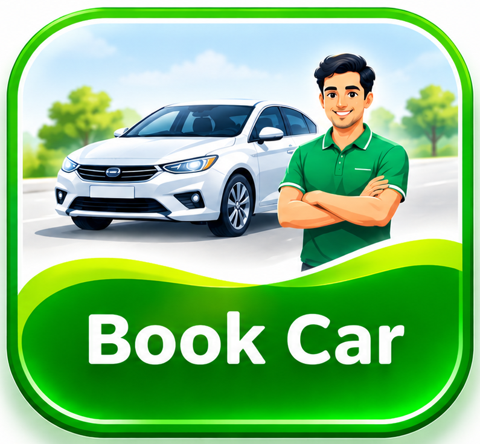
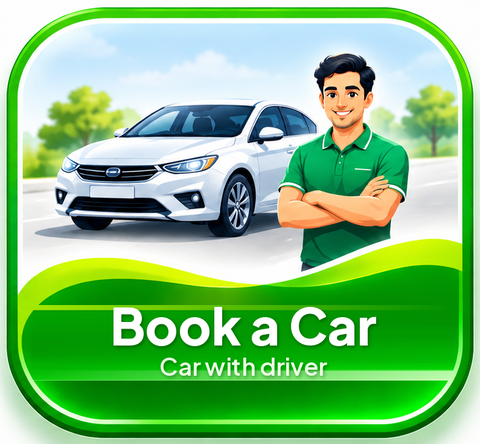
checkpoint before testing_agent_full_stack_o55
Emergent-Commit-Key: 35df40beab219f7323aee53d68f7e4933dedb3d9b6bb87ddf66d5abaf32f40e9

Changed region(s): [[0.0625, 0.6734, 0.9375, 0.8784]]

diff --git a/frontend/app/admin/dashboard.tsx b/frontend/app/admin/dashboard.tsx
@@ -397,7 +397,7 @@ export default function AdminScreen() {
               {["under_review", "approved", "resubmit", "rejected", "suspended", "all"].map((s) => <Chip key={s} testID={`admin-pro-filter-${s}`} label={s === "suspended" ? "Suspended" : s === "all" ? "All" : t(`verify.status.${s}`)} active={dStatus === s} onPress={() => setDStatus(s)} />)}
             </ScrollView>
             <ScrollView horizontal showsHorizontalScrollIndicator={false} contentContainerStyle={{ gap: space.sm }}>
-              {[["all", "All services"], ["rent", "Rent a Driver"], ["book", "Book Car"]].map(([k, l]) => <Chip key={k} testID={`admin-svc-filter-${k}`} label={l} active={svc === k} onPress={() => setSvc(k)} />)}
+              {[["all", "All services"], ["rent", "Rent a Driver"], ["book", "Book a Car"]].map(([k, l]) => <Chip key={k} testID={`admin-svc-filter-${k}`} label={l} active={svc === k} onPress={() => setSvc(k)} />)}
             </ScrollView>
             {data.length === 0 ? <Empty title={t("admin.empty")} /> : null}
             {data.map((p: any) => <AdminProCard key={p.user_id} p={p} act={act} onPreview={setPreview} />)}
@@ -461,14 +461,14 @@ export default function AdminScreen() {
         return (
           <>
             <ScrollView horizontal showsHorizontalScrollIndicator={false} contentContainerStyle={{ gap: space.sm }}>
-              {[["all", "All services"], ["rent", "Rent a Driver"], ["book", "Book Car"]].map(([k, l]) => <Chip key={k} testID={`admin-svc-filter-${k}`} label={l} active={svc === k} onPress={() => setSvc(k)} />)}
+              {[["all", "All services"], ["rent", "Rent a Driver"], ["book", "Book a Car"]].map(([k, l]) => <Chip key={k} testID={`admin-svc-filter-${k}`} label={l} active={svc === k} onPress={() => setSvc(k)} />)}
             </ScrollView>
             <T weight="800">Bookings ({data.bookings?.length ?? 0})</T>
             {(data.bookings ?? []).length === 0 ? <Empty title={t("admin.empty")} /> : null}
             {(data.bookings ?? []).map((b: any) => (
               <Card key={b.booking_id} testID={`admin-hire-${b.booking_id}`} onPress={() => router.push(`/hire/${b.booking_id}`)} style={{ gap: 4, padding: space.md }}>
                 <View style={{ flexDirection: "row", justifyContent: "space-between" }}>
-                  <T weight="700">{b.booking_id} · {b.service === "book" ? "Book Car" : "Rent a Driver"}</T>
+                  <T weight="700">{b.booking_id} · {b.service === "book" ? "Book a Car" : "Rent a Driver"}</T>
                   <Badge label={t(`status.${b.status}`)} tone={statusTone(b.status)} />
                 </View>
                 <T size={12}>{b.route} · {b.date} {b.time} · {inr(b.service_fee)}</T>
@@ -479,7 +479,7 @@ export default function AdminScreen() {
             {(data.requests ?? []).map((r: any) => (
               <Card key={r.request_id} testID={`admin-hire-req-${r.request_id}`} style={{ gap: 4, padding: space.md }}>
                 <View style={{ flexDirection: "row", justifyContent: "space-between" }}>
-                  <T weight="700">{r.request_id} · {r.service === "book" ? "Book Car" : "Rent a Driver"}</T>
+                  <T weight="700">{r.request_id} · {r.service === "book" ? "Book a Car" : "Rent a Driver"}</T>
                   <Badge label={r.status} tone={r.status === "fulfilled" ? "success" : r.status === "open" ? "warning" : "muted"} />
                 </View>
                 <T size={12}>{r.pickup} → {r.destination || "—"} · {r.date} {r.time}</T>

diff --git a/frontend/app/hire/vehicles.tsx b/frontend/app/hire/vehicles.tsx
@@ -10,7 +10,7 @@ import { useToast } from "@/src/components/toast";
 import { Btn, Empty, Header, Loading, T, space } from "@/src/components/ui";
 import { useTheme } from "@/src/theme";
 
-/** One shared vehicle list for Carpool and Local Driver; Book Car needs a separate admin approval per vehicle. */
+/** One shared vehicle list for Carpool and Local Driver; Book a Car needs a separate admin approval per vehicle. */
 export default function MyVehicles() {
   const insets = useSafeAreaInsets();
   const { colors } = useTheme();
@@ -22,7 +22,7 @@ export default function MyVehicles() {
   useFocusEffect(useCallback(() => { load(); }, [load]));
   const request = async (v: any) => {
     setBusy(v.vehicle_id);
-    try { await api(`/vehicles/${v.vehicle_id}/commercial`, { method: "POST" }); toast("Sent to Travoo for Book Car approval"); await load(); }
+    try { await api(`/vehicles/${v.vehicle_id}/commercial`, { method: "POST" }); toast("Sent to Travoo for Book a Car approval"); await load(); }
     catch (e: any) { toast(e.message, "error"); setForm({ v, book: true }); }
     setBusy("");
   };
@@ -34,12 +34,12 @@ export default function MyVehicles() {
           <T size={13} color={colors.muted}>Shared with Carpool. Hatchback and sedan carry up to 3 passengers; SUV/MUV up to the seats on the RC (max 8), driver not counted.</T>
           {form ? <VehicleForm initial={form.v} forBook={form.book} onCancel={() => setForm(null)} onSaved={() => { setForm(null); toast("Vehicle saved"); load(); }} />
             : <Btn testID="vehicles-add" icon="add" label="Add vehicle" onPress={() => setForm({ book: false })} />}
-          {list.length === 0 ? <Empty icon="car-outline" title="No vehicles yet" body="Add a vehicle to offer Book Car or publish carpool rides." /> : null}
+          {list.length === 0 ? <Empty icon="car-outline" title="No vehicles yet" body="Add a vehicle to offer Book a Car or publish carpool rides." /> : null}
           {list.map((v) => (
             <View key={v.vehicle_id} style={{ gap: space.xs }}>
               <VehicleRow v={v} onEdit={() => setForm({ v, book: v.commercial_status && v.commercial_status !== "none" })} />
               {["none", "rejected", undefined].includes(v.commercial_status) ? (
-                <Btn small variant="outline" testID={`vehicles-request-${v.vehicle_id}`} icon="briefcase-outline" label="Use for Book Car" loading={busy === v.vehicle_id} onPress={() => request(v)} />
+                <Btn small variant="outline" testID={`vehicles-request-${v.vehicle_id}`} icon="briefcase-outline" label="Use for Book a Car" loading={busy === v.vehicle_id} onPress={() => request(v)} />
               ) : null}
             </View>
           ))}

diff --git a/frontend/src/components/localdriver/VehicleForm.tsx b/frontend/src/components/localdriver/VehicleForm.tsx
@@ -60,7 +60,7 @@ export function VehicleForm({ initial, forBook, onSaved, onCancel }: { initial?:
   const set = (k: string, val: any) => setV((x: any) => ({ ...x, [k]: val }));
   const save = async () => {
     setErr("");
-    if (forBook && (!v.rc_file_id || !v.permit_no.trim() || !/^\d{2}-\d{2}-\d{4}$/.test(v.insurance_expiry))) return setErr("Book Car needs the RC, permit number and insurance expiry (DD-MM-YYYY)");
+    if (forBook && (!v.rc_file_id || !v.permit_no.trim() || !/^\d{2}-\d{2}-\d{4}$/.test(v.insurance_expiry))) return setErr("Book a Car needs the RC, permit number and insurance expiry (DD-MM-YYYY)");
     setBusy(true);
     try {
       const body = { name: v.name.trim(), make: v.make.trim(), model: v.model.trim() || "-", vtype: v.vtype, reg_no: v.reg_no.trim(), seats: v.seats, rc_file_id: v.rc_file_id,
@@ -92,7 +92,7 @@ export function VehicleForm({ initial, forBook, onSaved, onCancel }: { initial?:
           <Field testID="vehicle-permit" label="Commercial / tourist permit number" value={v.permit_no} onChangeText={(x) => set("permit_no", x)} maxLength={30} />
           <Field testID="vehicle-insurance" label="Insurance valid until (DD-MM-YYYY)" placeholder="31-12-2027" value={v.insurance_expiry ?? ""} onChangeText={(x) => set("insurance_expiry", x)} maxLength={10} keyboardType="numbers-and-punctuation" />
           <Field testID="vehicle-day-rate" label="Vehicle charge per day (₹)" value={String(v.day_rate || "")} onChangeText={(x) => set("day_rate", x.replace(/\D/g, ""))} keyboardType="number-pad" maxLength={5} />
-          <T size={11} color={colors.muted}>Travoo checks the RC, permit and insurance before this vehicle can be used for Book Car.</T>
+          <T size={11} color={colors.muted}>Travoo checks the RC, permit and insurance before this vehicle can be used for Book a Car.</T>
         </>
       ) : null}
       {err ? <T testID="vehicle-form-error" size={13} color={colors.error}>{err}</T> : null}

diff --git a/frontend/src/components/localdriver/parts.tsx b/frontend/src/components/localdriver/parts.tsx
@@ -11,7 +11,7 @@ export const LANG_OPTIONS = ["Kannada", "Hindi", "English", "Tamil", "Telugu", "
   "Assamese", "Konkani", "Tulu", "Bhojpuri", "Rajasthani", "Kashmiri", "Maithili", "Nepali", "Sindhi", "Manipuri"];
 
 export const PRO_STATUS: Record<string, { label: string; tone: "info" | "success" | "warning" | "error" | "muted"; icon: IconName; text: string }> = {
-  none: { label: "Not registered", tone: "muted", icon: "person-add-outline", text: "Register once to offer Rent a Driver and Book Car." },
+  none: { label: "Not registered", tone: "muted", icon: "person-add-outline", text: "Register once to offer Rent a Driver and Book a Car." },
   under_review: { label: "Verification pending", tone: "warning", icon: "time-outline", text: "Travoo is checking your documents. We will notify you after the review." },
   approved: { label: "Approved", tone: "success", icon: "shield-checkmark", text: "You are a verified Travoo local driver." },
   rejected: { label: "Rejected", tone: "error", icon: "close-circle-outline", text: "Your registration was not approved. Fix the items below and submit again." },
@@ -22,7 +22,7 @@ export const ITEM_LABEL: Record<string, string> = { home: "Home location", langu
   licence_front: "Licence front photo", licence_back: "Licence back photo", id_proof: "Aadhaar front photo", vehicles: "Vehicle details" };
 
 export const COMMERCIAL: Record<string, { label: string; tone: "info" | "success" | "warning" | "error" | "muted" }> = {
-  approved: { label: "Approved for Book Car", tone: "success" }, pending: { label: "Approval pending", tone: "warning" },
+  approved: { label: "Approved for Book a Car", tone: "success" }, pending: { label: "Approval pending", tone: "warning" },
   rejected: { label: "Not approved", tone: "error" }, none: { label: "Carpool only", tone: "muted" },
 };
 

diff --git a/frontend/app/(tabs)/index.tsx b/frontend/app/(tabs)/index.tsx
@@ -69,8 +69,7 @@ function PassengerHome() {
   const art = (testID: string, img: number, title: string, sub: string, bg: string, onPress: () => void, delay: number) => (
     <Pressable testID={testID} onPress={onPress} style={({ pressed }) => ({ flex: 1, borderRadius: radius.lg, backgroundColor: bg, overflow: "hidden", padding: space.sm, gap: 2,
       shadowColor: "#14233A", shadowOpacity: 0.08, shadowRadius: 12, shadowOffset: { width: 0, height: 6 }, elevation: 3, transform: [{ scale: pressed ? 0.97 : 1 }] })}>
-      <FloatingImage source={img} delay={delay} style={{ width: "100%", height: 130 }} testID={`${testID}-image`} />
-      <T size={12} weight="700" center accessibilityLabel={title}>{sub}</T>
+      <FloatingImage source={img} delay={delay} style={{ width: "100%", height: 150 }} testID={`${testID}-image`} accessibilityLabel={`${title}. ${sub}`} />
     </Pressable>
   );
 
@@ -110,7 +109,7 @@ function PassengerHome() {
         </Animated.View>
         <Animated.View entering={FadeInDown.delay(80).duration(400)} style={{ flexDirection: "row", gap: space.md, paddingHorizontal: space.lg }}>
           {art("home-rent-driver-card", require("@/assets/images/tile-rent-driver.png"), "Rent a Driver", "Driver for your car", "#FFFFFF", () => router.push("/hire?service=rent"), 0)}
-          {art("home-book-car-card", require("@/assets/images/tile-book-car.png"), "Book Car", "Car with driver", "#FFFFFF", () => router.push("/hire?service=book"), 400)}
+          {art("home-book-car-card", require("@/assets/images/tile-book-car.png"), "Book a Car", "Car with driver", "#FFFFFF", () => router.push("/hire?service=book"), 400)}
         </Animated.View>
 
         <Animated.View entering={FadeInDown.delay(120).duration(400)} style={{ gap: space.sm, paddingHorizontal: space.lg }}>

diff --git a/frontend/app/(tabs)/driver-trips.tsx b/frontend/app/(tabs)/driver-trips.tsx
@@ -35,7 +35,7 @@ export default function DriverTripsTab() {
       {!hires ? <Loading /> : (
         <FlatList data={data} keyExtractor={(i) => i.booking_id ?? i.trip_id} refreshControl={<RefreshControl refreshing={false} onRefresh={load} />}
           contentContainerStyle={{ padding: space.lg, gap: space.md, paddingBottom: 120 }}
-          ListEmptyComponent={<Empty icon="car-outline" title="No trips here yet" body={tab === "carpool" ? "Rides you publish appear here." : "Accepted Rent / Book Car trips appear here."} />}
+          ListEmptyComponent={<Empty icon="car-outline" title="No trips here yet" body={tab === "carpool" ? "Rides you publish appear here." : "Accepted Rent / Book a Car trips appear here."} />}
           renderItem={({ item }) => tab === "carpool" ? (
             <Card testID={`trips-ride-${item.trip_id}`} onPress={() => router.push(`/trip/${item.trip_id}`)} style={{ gap: space.xs }}>
               <View style={{ flexDirection: "row", justifyContent: "space-between", gap: space.sm }}>
@@ -50,7 +50,7 @@ export default function DriverTripsTab() {
                 <T weight="800" style={{ flex: 1 }} numberOfLines={1}>{item.route}</T>
                 <Badge label={item.status} tone={statusTone(item.status)} />
               </View>
-              <T size={13} color={colors.muted}>{fmtDate(item.date)} · {item.time} · {item.service === "book" ? "Book Car" : "Rent a Driver"} · {item.hours} h</T>
+              <T size={13} color={colors.muted}>{fmtDate(item.date)} · {item.time} · {item.service === "book" ? "Book a Car" : "Rent a Driver"} · {item.hours} h</T>
               <T weight="800" color={colors.success}>{inr(item.service_fee)}</T>
             </Card>
           )} />

diff --git a/frontend/app/mode.tsx b/frontend/app/mode.tsx
@@ -47,7 +47,7 @@ export default function ChooseMode() {
     <ScrollView style={{ flex: 1, backgroundColor: colors.surface }} contentContainerStyle={{ padding: space.lg, paddingTop: insets.top + space.xl, gap: space.lg, paddingBottom: insets.bottom + space.xl }}>
       <View style={{ alignItems: "center" }}><Wordmark size={34} /></View>
       <T testID="mode-title" size={26} weight="800" center>How would you like to use Travoo?</T>
-      <ModeCard testID="mode-passenger" img={IMG.passenger} kicker="I'm a" title="Passenger" points={["Find a Ride", "Rent a Driver", "Book Car"]} bg={colors.brandSoft} accent={colors.brandPrimary} busy={busy} onPress={() => pick("passenger")} />
+      <ModeCard testID="mode-passenger" img={IMG.passenger} kicker="I'm a" title="Passenger" points={["Find a Ride", "Rent a Driver", "Book a Car"]} bg={colors.brandSoft} accent={colors.brandPrimary} busy={busy} onPress={() => pick("passenger")} />
       <ModeCard testID="mode-driver" img={IMG.driver} kicker="I'm a" title="Driver" points={["Offer a Ride", "Driver Only", "Car with Driver", "Earn with Driving"]} bg={colors.accentSoft} accent={colors.brandTertiary} busy={busy} onPress={() => pick("driver")} />
       {err ? <T testID="mode-error" color={colors.error}>{err}</T> : null}
       <View style={{ flexDirection: "row", alignItems: "center", gap: space.md, padding: space.md, borderRadius: radius.lg, backgroundColor: colors.surfaceSecondary }}>

diff --git a/frontend/src/components/LocalDriverParts.tsx b/frontend/src/components/LocalDriverParts.tsx
@@ -5,7 +5,7 @@ import { HomeLoc, Taluk, TalukPicker } from "@/src/components/TalukPicker";
 import { Badge, Btn, Card, Chip, Field, Stepper, T, space } from "@/src/components/ui";
 import { useTheme } from "@/src/theme";
 
-export const SERVICE_LABEL: Record<string, string> = { rent: "Rent a Driver", book: "Book Car" };
+export const SERVICE_LABEL: Record<string, string> = { rent: "Rent a Driver", book: "Book a Car" };
 export const RENT_OPTIONS = [["hourly", "Hourly"], ["half_day", "Half-day"], ["full_day", "Full-day"], ["multi_day", "Multiple days"], ["outstation", "Outstation"]] as const;
 export const BOOK_OPTIONS = [["one_way", "One-way"], ["round_trip", "Round trip"], ["multi_day", "Multiple days"], ["outstation", "Outstation"]] as const;
 export const VEHICLE_CATS = ["hatchback", "sedan", "suv", "muv", "van", "luxury", "other"];
@@ -75,7 +75,7 @@ export function ServiceAreasEditor({ areas, onChange, homeCode, testPrefix = "ar
 
 const blank: Vehicle = { name: "", reg_no: "", category: "sedan", seats: 4, day_rate: 0, available: true };
 
-/** Vehicles provided for Book Car. */
+/** Vehicles provided for Book a Car. */
 export function VehiclesEditor({ vehicles, onChange, testPrefix = "veh" }: { vehicles: Vehicle[]; onChange: (v: Vehicle[]) => void; testPrefix?: string }) {
   const { colors } = useTheme();
   const [v, setV] = useState<Vehicle>(blank);

diff --git a/frontend/app/hire/register.tsx b/frontend/app/hire/register.tsx
@@ -41,7 +41,7 @@ function StatusView({ me, onFix }: { me: any; onFix: () => void }) {
         <T size={13}>Home: {p.home?.subdistrict_name} {p.home?.sub_label}, {p.home?.district_name}</T>
         <T size={13}>Languages: {(p.languages ?? []).join(", ")}</T>
         <T size={13}>Licence: {p.licence_no} · valid until {p.licence_expiry}</T>
-        <T size={13}>Services: {(p.services ?? []).map((s: string) => (s === "book" ? "Book Car" : "Rent a Driver")).join(" + ")}</T>
+        <T size={13}>Services: {(p.services ?? []).map((s: string) => (s === "book" ? "Book a Car" : "Rent a Driver")).join(" + ")}</T>
       </Card>
       {fix ? <Btn testID="pro-fix-button" icon="create-outline" label="Fix and resubmit" onPress={onFix} /> : null}
       {p.status === "approved" ? <Btn testID="pro-open-dashboard" label="Open Local Driver Dashboard" onPress={() => router.replace("/hire/driver")} /> : null}
@@ -102,7 +102,7 @@ export default function LocalDriverRegister() {
     }
     if (step === 2) {
       if (!d.services.length) return "Choose at least one service";
-      if (d.services.includes("book") && !d.vehicle_ids.length) return "Add or select at least one vehicle for Book Car";
+      if (d.services.includes("book") && !d.vehicle_ids.length) return "Add or select at least one vehicle for Book a Car";
     }
     return "";
   };

diff --git a/frontend/src/components/localdriver/UnifiedEarnings.tsx b/frontend/src/components/localdriver/UnifiedEarnings.tsx
@@ -8,7 +8,7 @@ import { Chip, T, radius, space } from "@/src/components/ui";
 import { inr, useI18n } from "@/src/i18n";
 import { useTheme } from "@/src/theme";
 
-const SVC = [["all", "All"], ["carpool", "Carpooling"], ["rent", "Rent a Driver"], ["book", "Book Car"]] as const;
+const SVC = [["all", "All"], ["carpool", "Carpooling"], ["rent", "Rent a Driver"], ["book", "Book a Car"]] as const;
 const PER = [["today", "Today"], ["week", "This week"], ["month", "This month"]] as const;
 
 /** Unified earnings from completed bookings only (carpool + local driver), no simulated numbers. */
@@ -45,7 +45,7 @@ export function UnifiedEarnings() {
         <View key={i.id} testID={`earn-item-${i.id}`} style={{ flexDirection: "row", alignItems: "center", gap: space.sm, paddingVertical: space.xs }}>
           <View style={{ flex: 1 }}>
             <T size={13} weight="700" numberOfLines={1}>{i.route}</T>
-            <T size={11} color={colors.muted}>{i.service === "carpool" ? "Carpooling" : i.service === "book" ? "Book Car" : "Rent a Driver"} · {fmtDate(i.at.slice(0, 10))}</T>
+            <T size={11} color={colors.muted}>{i.service === "carpool" ? "Carpooling" : i.service === "book" ? "Book a Car" : "Rent a Driver"} · {fmtDate(i.at.slice(0, 10))}</T>
           </View>
           <T weight="800">{inr(i.net)}</T>
         </View>

diff --git a/frontend/src/components/FloatingImage.tsx b/frontend/src/components/FloatingImage.tsx
@@ -4,14 +4,14 @@ import { ViewStyle } from "react-native";
 import Animated, { Easing, useAnimatedStyle, useSharedValue, withDelay, withRepeat, withSequence, withTiming } from "react-native-reanimated";
 
 /** Gently floating picture (loops up and down). */
-export function FloatingImage({ uri, source, style, delay = 0, testID }: { uri?: string; source?: number; style?: ViewStyle; delay?: number; testID?: string }) {
+export function FloatingImage({ uri, source, style, delay = 0, testID, accessibilityLabel }: { uri?: string; source?: number; style?: ViewStyle; delay?: number; testID?: string; accessibilityLabel?: string }) {
   const y = useSharedValue(0);
   useEffect(() => {
     y.value = withDelay(delay, withRepeat(withSequence(withTiming(-6, { duration: 1400, easing: Easing.inOut(Easing.quad) }), withTiming(0, { duration: 1400, easing: Easing.inOut(Easing.quad) })), -1));
   }, [delay, y]);
   const st = useAnimatedStyle(() => ({ transform: [{ translateY: y.value }] }));
   return (
-    <Animated.View testID={testID} style={[style, st]}>
+    <Animated.View testID={testID} accessibilityLabel={accessibilityLabel} style={[style, st]}>
       <Image source={source ?? { uri }} style={{ width: "100%", height: "100%" }} contentFit="contain" />
     </Animated.View>
   );

diff --git a/frontend/src/components/localdriver/steps.tsx b/frontend/src/components/localdriver/steps.tsx
@@ -110,11 +110,11 @@ export function StepServices({ me, d, set, items, reload }: { me: any; d: Draft;
     <View style={{ gap: space.lg }}>
       <View style={{ flexDirection: "row", gap: space.md }}>
         <ServiceCard testID="pro-service-rent" icon="key-outline" title="Rent a Driver" desc="Drive the customer's own vehicle. No vehicle needed." active={d.services.includes("rent")} onPress={() => toggle("rent")} />
-        <ServiceCard testID="pro-service-book" icon="car-sport-outline" title="Book Car" desc="You provide the vehicle and drive." active={book} onPress={() => toggle("book")} note="Approved vehicle required" />
+        <ServiceCard testID="pro-service-book" icon="car-sport-outline" title="Book a Car" desc="You provide the vehicle and drive." active={book} onPress={() => toggle("book")} note="Approved vehicle required" />
       </View>
       {book ? (
         <View testID="pro-book-vehicles" style={{ gap: space.sm }}>
-          <T weight="800">Vehicles for Book Car</T>
+          <T weight="800">Vehicles for Book a Car</T>
           <Flag k="vehicles" items={items} />
           {me.vehicles.length ? <T size={12} color={colors.muted}>Select from your vehicle list (shared with Carpool).</T> : null}
           {me.vehicles.map((v: any) => (
